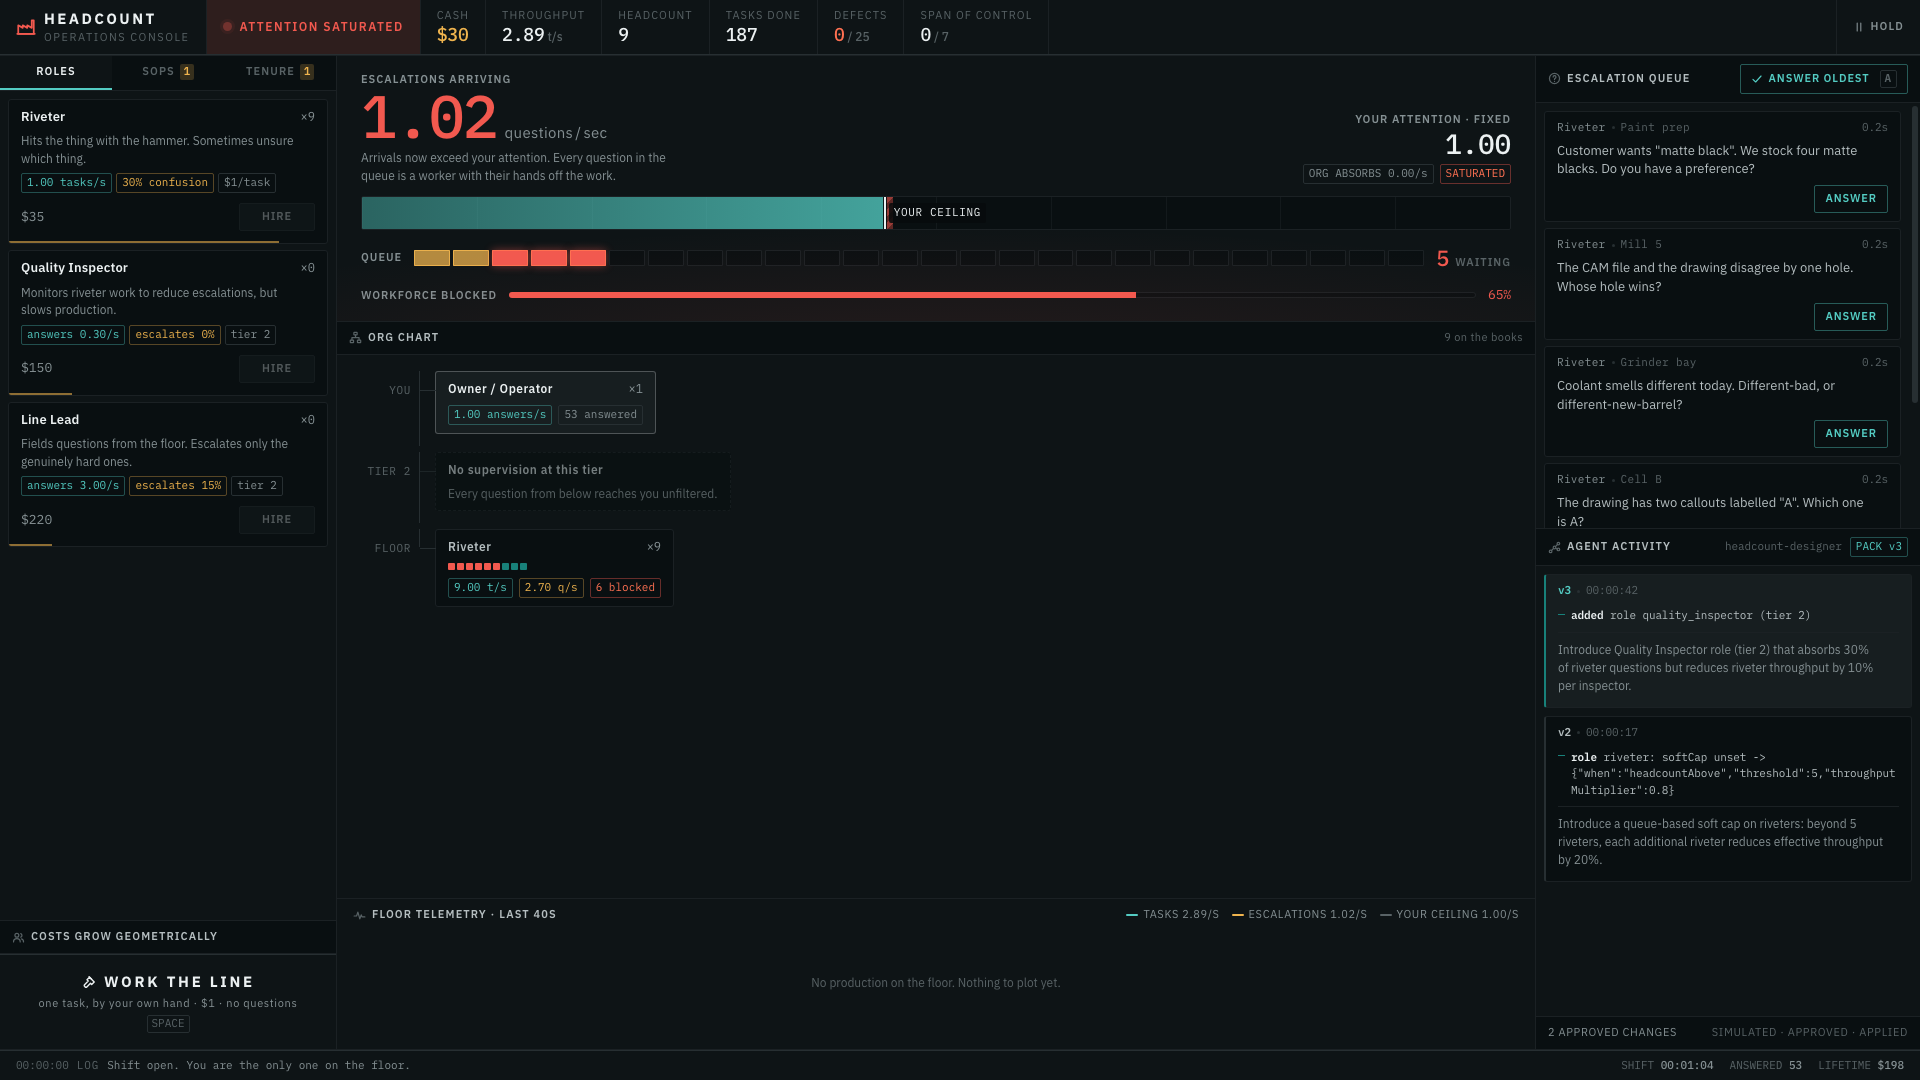
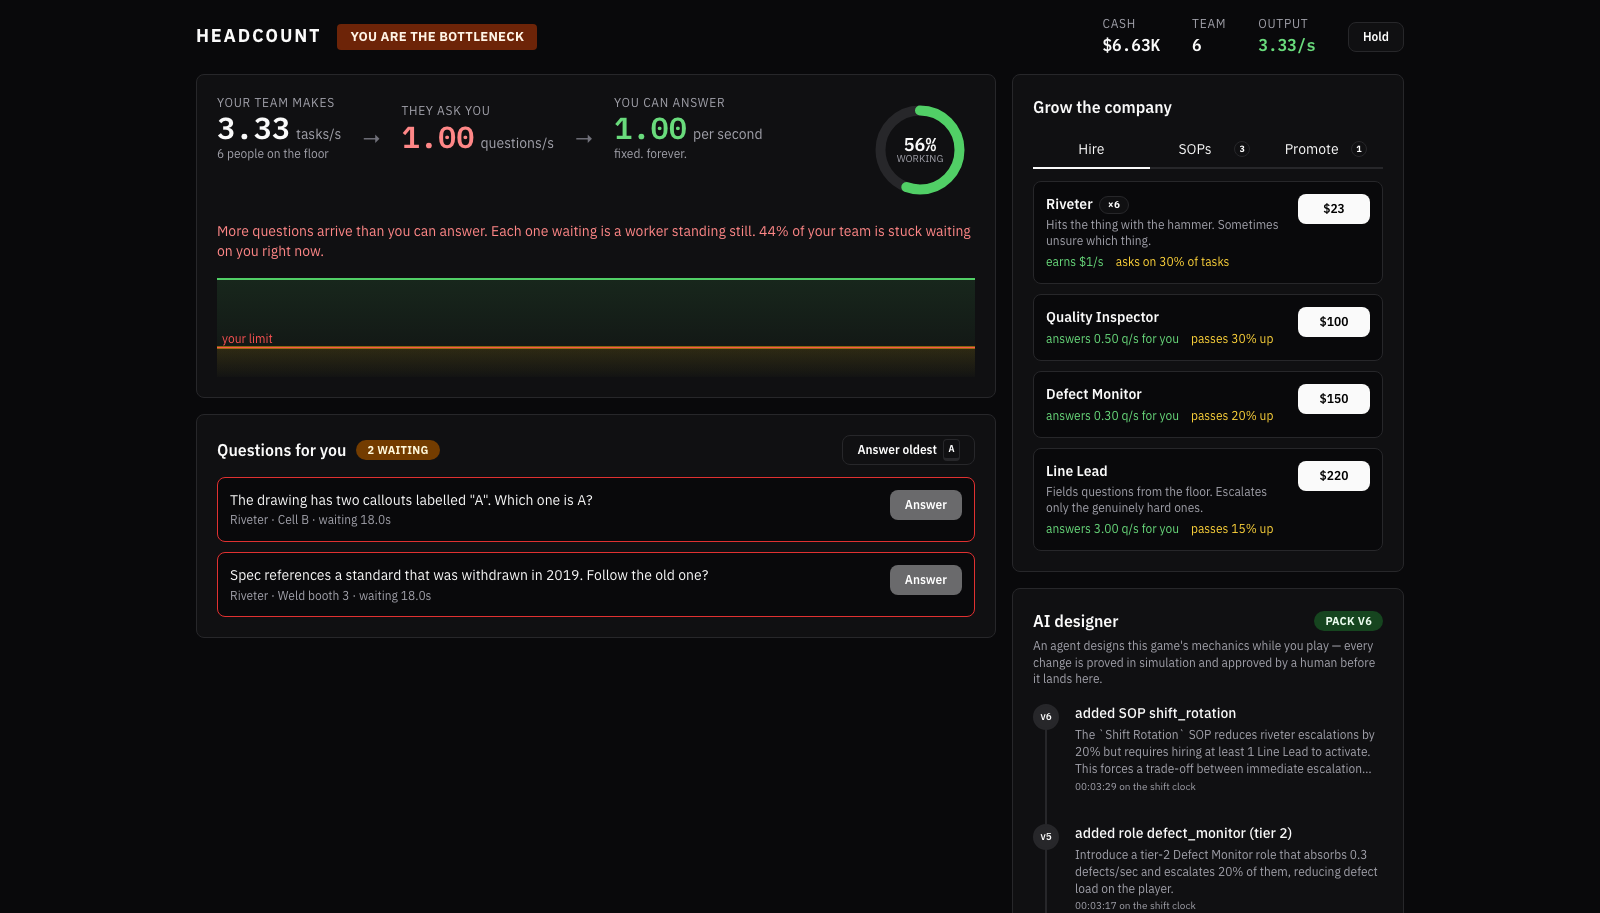
Refresh README screenshot to the rebuilt console

diff --git a/README.md b/README.md
@@ -16,7 +16,7 @@ never scales: a human's attention. HEADCOUNT makes that the economy. Then it
 hands the design of the game to an agent, which must prove every change in
 simulation and ask a human before it can touch anything.
 
-![The HEADCOUNT operations console: escalations arriving at 1.02 questions per second against a fixed ceiling of 1.00, 65% of the workforce blocked, five questions queued, and an agent activity panel showing two approved design changes](docs/images/console-at-the-wall.png)
+![The HEADCOUNT console: the team makes 3.33 tasks/s and asks 1.00 question/s against a fixed answer rate of 1.00, 44% of the team stuck waiting, two questions queued, and the AI designer timeline showing pack v6](docs/images/console-at-the-wall.png)
 
 *Nine people on the floor and six of them standing still, waiting for you to
 answer a question. On the right, two changes an agent designed: a soft cap it
